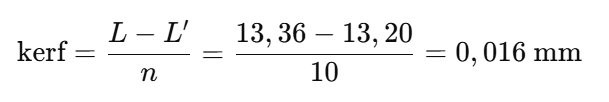
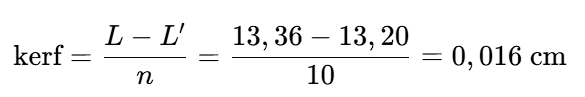
finale6

diff --git a/Verkefni2.html b/Verkefni2.html
@@ -209,8 +209,8 @@
 										<br>
 								<div class="text-box green">
 									Við reiknuðum kerf með því að skera út kerf-próf og mæla síðan muninn á kubbunum og gatinu. 
-									Í mínu tilfelli mældust kubbarnir <strong><Em>L' = 13.20 mm</Em></strong> en gatið milli <strong><Em>L = 13.36 mm</Em></strong>.
-									Þar sem geislaskerinn skar samtals 10 línur <strong><em>(n = 10)</em></strong> og þá fæst kerf geislaskerans:
+									Í mínu tilfelli mældust kubbarnir <strong><Em>L' = 13.20 cm</Em></strong> en gatið milli <strong><Em>L = 13.36 cm</Em></strong>.
+									Þar sem geislaskerinn skar samtals 10 línur <strong><em>(n = 10)</em></strong> og þá fæst kerf geislaskerans <strong><em>0.16 mm</em></strong>:
 									
 								</div>	
 								<img src="images/V2mynd17.png" alt="Skjáskot af verkefni" class="screenshot small">
@@ -241,7 +241,7 @@
 								</div>
 								<div class="text-box green">
 									Eins og má sjá hér að neðan pössuðu prófunaríhlutirnir vel saman í samsetningu, 
-									sem bendir til þess að <strong><em>0,016 mm</em></strong> sé heppilegt kerf-gildi fyrir <strong><em>5 mm</em></strong> þykkt akríl og er tilbuinn fyrir næsta hluta verkefnisins.
+									sem bendir til þess að <strong><em>0,16 mm</em></strong> sé heppilegt kerf-gildi fyrir <strong><em>5 mm</em></strong> þykkt akríl og er tilbuinn fyrir næsta hluta verkefnisins.
 								</div>
 								
 								<div style="text-align:center;">
